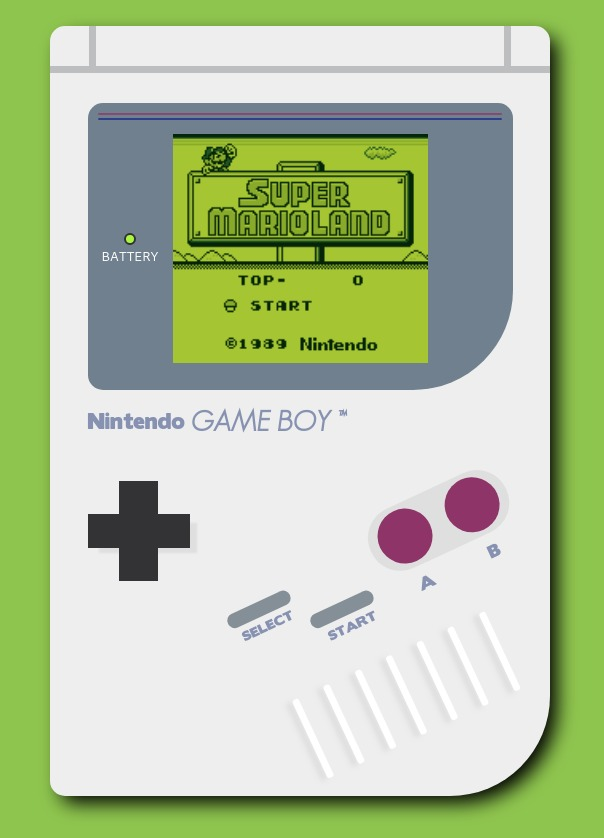
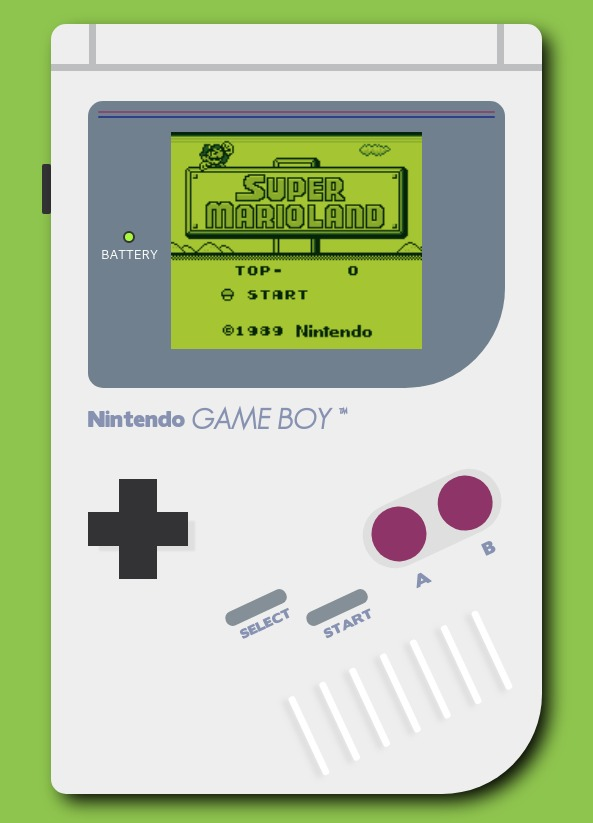
adjusts

diff --git a/src/App.js b/src/App.js
@@ -4,7 +4,8 @@ import "./App.css";
 class App extends Component {
   state = {
     start: false,
-    message: "- Press the button start -"
+    message: "- Press the button start -",
+    turn: false
   };
 
   changeMessage = () => {
@@ -19,81 +20,103 @@ class App extends Component {
     });
   };
 
+  turn = () => {
+    this.setState({
+      turn: !this.state.turn,
+      start: false
+    });
+  };
+
   render() {
     return (
       <div className="App">
-        <div class="main-game">
-          <div class="div-header">
-            <div class="div-menor-left-header"></div>
-            <div class="div-maior-header"></div>
-            <div class="div-menor-right-header"></div>
-          </div>
-          <div class="screen-game">
-            <div class="screen-header">
-              <div class="lines-header">
-                <div class="red-line"></div>
-                <div class="blue-line"></div>
-              </div>
+        <div className="div-main-main">
+          {this.state.turn ? (
+            <div className="button-on" onClick={this.turn}></div>
+          ) : (
+            <div className="button-of" onClick={this.turn}></div>
+          )}
+          <div class="main-game">
+            <div class="div-header">
+              <div class="div-menor-left-header"></div>
+              <div class="div-maior-header"></div>
+              <div class="div-menor-right-header"></div>
             </div>
-            <div class="div-screen-menor">
-              <div class="battery-screen">
-                <div class="ball-screen">
-                  <div class="ball-green"></div>
+            <div class="screen-game">
+              <div class="screen-header">
+                <div class="lines-header">
+                  <div class="red-line"></div>
+                  <div class="blue-line"></div>
                 </div>
-                <div class="battery-game">BATTERY</div>
               </div>
-              <div class="screen-menor-game">
-                <p class="a">
-                  {!this.state.start ? (
-                    // eslint-disable-next-line jsx-a11y/alt-text
-                    <img className="img" src="mario-start.png" />
+              <div class="div-screen-menor">
+                <div class="battery-screen">
+                  <div class="ball-screen">
+                    {this.state.turn ? (
+                      <div class="ball-green"></div>
+                    ) : (
+                      <div class="ball-red"></div>
+                    )}
+                  </div>
+                  <div class="battery-game">BATTERY</div>
+                </div>
+                <div class="screen-menor-game">
+                  {this.state.turn ? (
+                    <p class="a">
+                      {!this.state.start ? (
+                        // eslint-disable-next-line jsx-a11y/alt-text
+                        <img className="img" src="mario-start.png" />
+                      ) : (
+                        // eslint-disable-next-line jsx-a11y/alt-text
+                        <img className="img" src="gameboy-mario.png" />
+                      )}
+                    </p>
                   ) : (
-                    // eslint-disable-next-line jsx-a11y/alt-text
-                    <img className="img" src="gameboy-mario.png" />
+                    <div className="div-off"></div>
                   )}
-                </p>
+                </div>
               </div>
             </div>
-          </div>
-          <div class="div-text">
-            <div class="nintendo-text">Nintendo</div>
-            <div class="gameBoy-text">GAME BOY ™</div>
-          </div>
-          <div class="div-buttons">
-            <div class="joistick">
-              <div class="reto"></div>
-              <div class="deitado"></div>
+            <div class="div-text">
+              <div class="nintendo-text">Nintendo</div>
+              <div class="gameBoy-text">GAME BOY ™</div>
             </div>
-            <div class="div-buttonsAB">
-              <div class="buttonsAB">
-                <div class="ball-A" onClick={this.changeMessage}></div>
-                <div class="ball-A"></div>
+            <div class="div-buttons">
+              <div class="joistick">
+                <div class="reto"></div>
+                <div class="deitado"></div>
               </div>
-              <div class="text-AB">
-                <div class="A-text">A</div>
-                <div class="B-text">B</div>
+              <div class="div-buttonsAB">
+                <div class="buttonsAB">
+                  <div class="ball-A" onClick={this.changeMessage}></div>
+                  <div class="ball-B"></div>
+                </div>
+                <div class="text-AB">
+                  <div class="A-text">A</div>
+                  <div class="B-text">B</div>
+                </div>
               </div>
             </div>
-          </div>
-          <div class="div-buttons-start">
-            <div class="div-start">
-              <div class="start"></div>
-              <div class="select-text">SELECT</div>
+            <div class="div-buttons-start">
+              <div class="div-start">
+                <div class="select"></div>
+                <div class="select-text">SELECT</div>
+              </div>
+              <div class="div-start">
+                <div class="start" onClick={this.start}></div>
+                <div class="start-text">START</div>
+              </div>
             </div>
-            <div class="div-start">
-              <div class="start" onClick={this.start}></div>
-              <div class="start-text">START</div>
-            </div>
-          </div>
-          <div class="div-volume">
-            <div class="volume">
-              <div class="mini-volumes"></div>
-              <div class="mini-volumes"></div>
-              <div class="mini-volumes"></div>
-              <div class="mini-volumes"></div>
-              <div class="mini-volumes"></div>
-              <div class="mini-volumes"></div>
-              <div class="mini-volumes"></div>
+            <div class="div-volume">
+              <div class="volume">
+                <div class="mini-volumes"></div>
+                <div class="mini-volumes"></div>
+                <div class="mini-volumes"></div>
+                <div class="mini-volumes"></div>
+                <div class="mini-volumes"></div>
+                <div class="mini-volumes"></div>
+                <div class="mini-volumes"></div>
+              </div>
             </div>
           </div>
         </div>

diff --git a/src/App.css b/src/App.css
@@ -1,42 +1,27 @@
 .App {
   text-align: center;
 }
-
-.App-logo {
-  height: 40vmin;
-  pointer-events: none;
-}
-
-@media (prefers-reduced-motion: no-preference) {
-  .App-logo {
-    animation: App-logo-spin infinite 20s linear;
-  }
-}
-
-.App-header {
-  background-color: #282c34;
-  min-height: 100vh;
+.div-main-main {
   display: flex;
-  flex-direction: column;
-  align-items: center;
-  justify-content: center;
-  font-size: calc(10px + 2vmin);
-  color: white;
+  width: 500px;
+  height: 770px;
 }
-
-.App-link {
-  color: #61dafb;
+.button-of {
+  background-color: #333335;
+  width: 9px;
+  height: 50px;
+  margin-top: 150px;
+  border-radius: 2px;
+  cursor: pointer;
 }
-
-@keyframes App-logo-spin {
-  from {
-    transform: rotate(0deg);
-  }
-  to {
-    transform: rotate(360deg);
-  }
+.button-on {
+  background-color: #333335;
+  width: 9px;
+  height: 50px;
+  margin-top: 140px;
+  border-radius: 2px;
+  cursor: pointer;
 }
-
 body {
   background-color: #8dc53f;
   display: flex;
@@ -45,8 +30,8 @@ body {
   justify-content: center;
 }
 .main-game {
-  width: 500px;
-  height: 770px;
+  width: 100%;
+  height: 100%;
   background-color: #eeeeee;
   border-bottom-right-radius: 100px !important;
   border-radius: 15px;
@@ -54,6 +39,7 @@ body {
   flex-direction: column;
   align-items: center;
   box-shadow: 9px 9px 19px -2px black;
+  z-index: 2;
 }
 .div-header {
   width: 100%;
@@ -109,6 +95,18 @@ body {
   border-radius: 50%;
   background-color: rgb(167, 248, 6);
 }
+.ball-red {
+  width: 8px;
+  height: 8px;
+  border-radius: 50%;
+  background-color: red;
+}
+.div-off {
+  background-color: #2f2f2d;
+  width: 100%;
+  height: 217px;
+  font-size: 14px;
+}
 .battery-game {
   margin-top: 3px;
   font-size: 13px;
@@ -163,7 +161,7 @@ body {
 }
 .img {
   width: 100%;
-  height: 100%;
+  height: 217px;
 }
 .nintendo-text {
   font-family: Nintendo2;
@@ -205,6 +203,9 @@ body {
   cursor: pointer;
   box-shadow: 9px 7px 2px -2px #dfdfdf;
 }
+.reto:active {
+  margin-top: 1px;
+}
 .deitado {
   width: 30%;
   height: 100px;
@@ -214,6 +215,9 @@ body {
   z-index: 1;
   position: relative;
   cursor: pointer;
+}
+.deitado:active {
+  margin-top: 1px;
 }
 .div-buttonsAB {
   width: 35%;
@@ -239,6 +243,26 @@ body {
   background-color: #903369;
   cursor: pointer;
 }
+.ball-A:hover {
+  background-color: #813360;
+}
+.ball-A:active {
+  margin-top: 6px;
+}
+.ball-B {
+  margin: 5px;
+  width: 55px;
+  height: 55px;
+  border-radius: 50%;
+  background-color: #903369;
+  cursor: pointer;
+}
+.ball-B:hover {
+  background-color: #813360;
+}
+.ball-B:active {
+  margin-top: 6px;
+}
 .a {
   font-family: Nintendo;
   font-size: 26px;
@@ -258,6 +282,26 @@ body {
   background-color: #858f98;
   transform: rotate(335deg);
   cursor: pointer;
+}
+.start:hover {
+  background-color: #727a81;
+}
+.start:active {
+  margin-left: 1px;
+}
+.select {
+  width: 100%;
+  height: 15px;
+  border-radius: 50px;
+  background-color: #858f98;
+  transform: rotate(335deg);
+  cursor: pointer;
+}
+.select:hover {
+  background-color: #727a81;
+}
+.select:active {
+  margin-left: 1px;
 }
 .start-text {
   transform: rotate(335deg);
